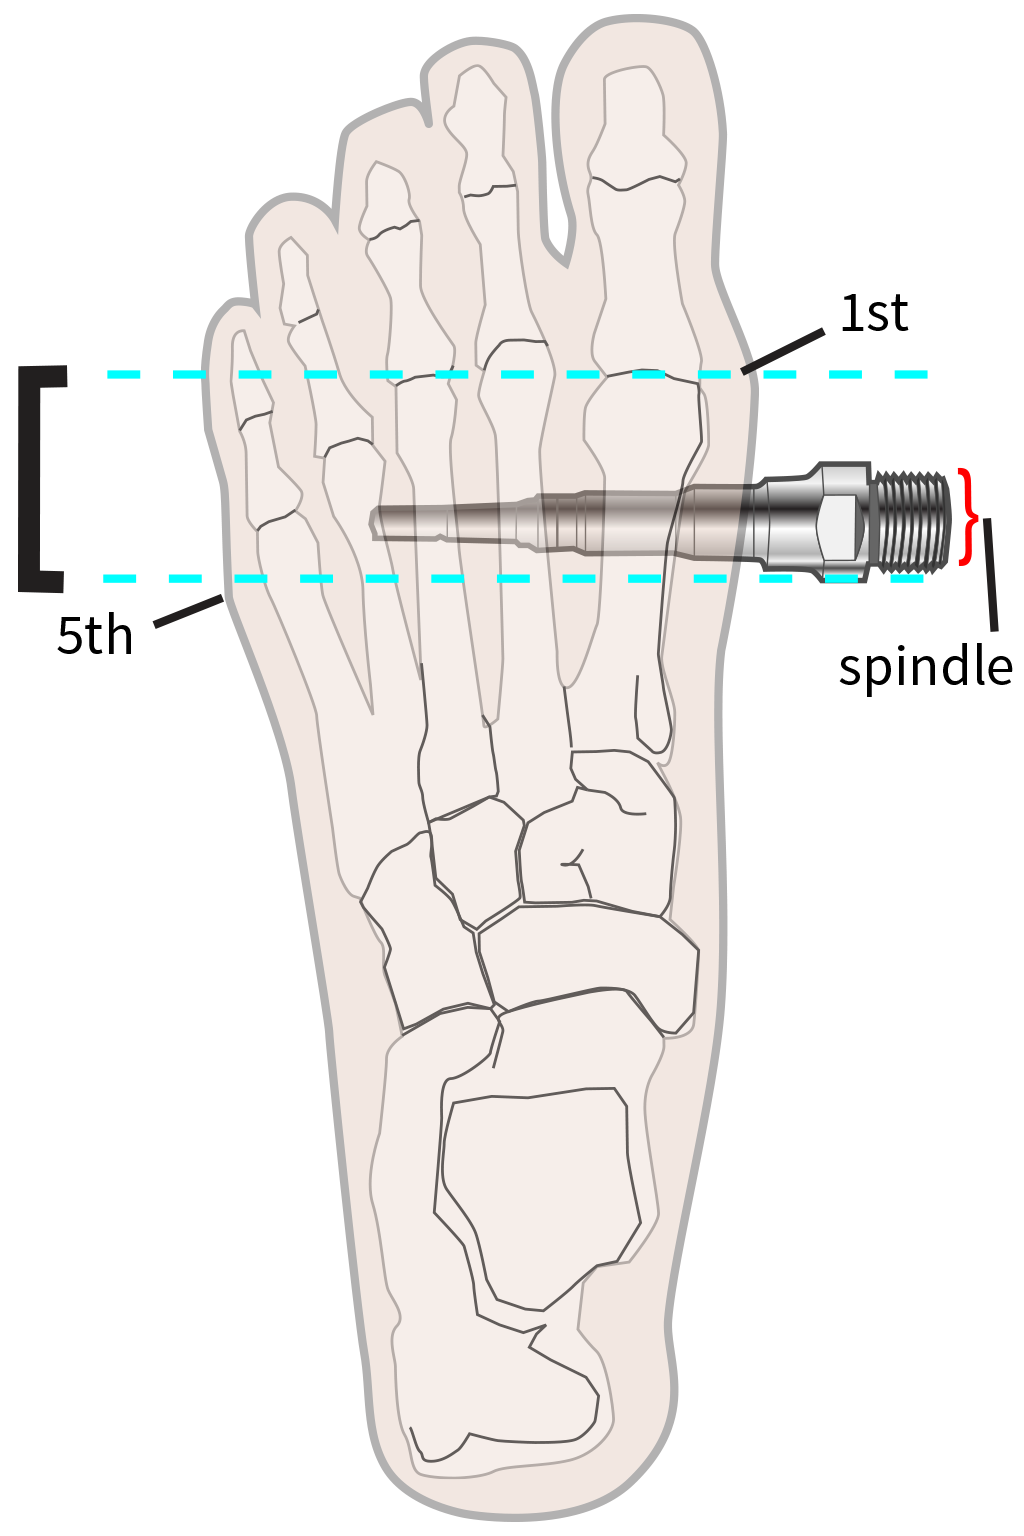
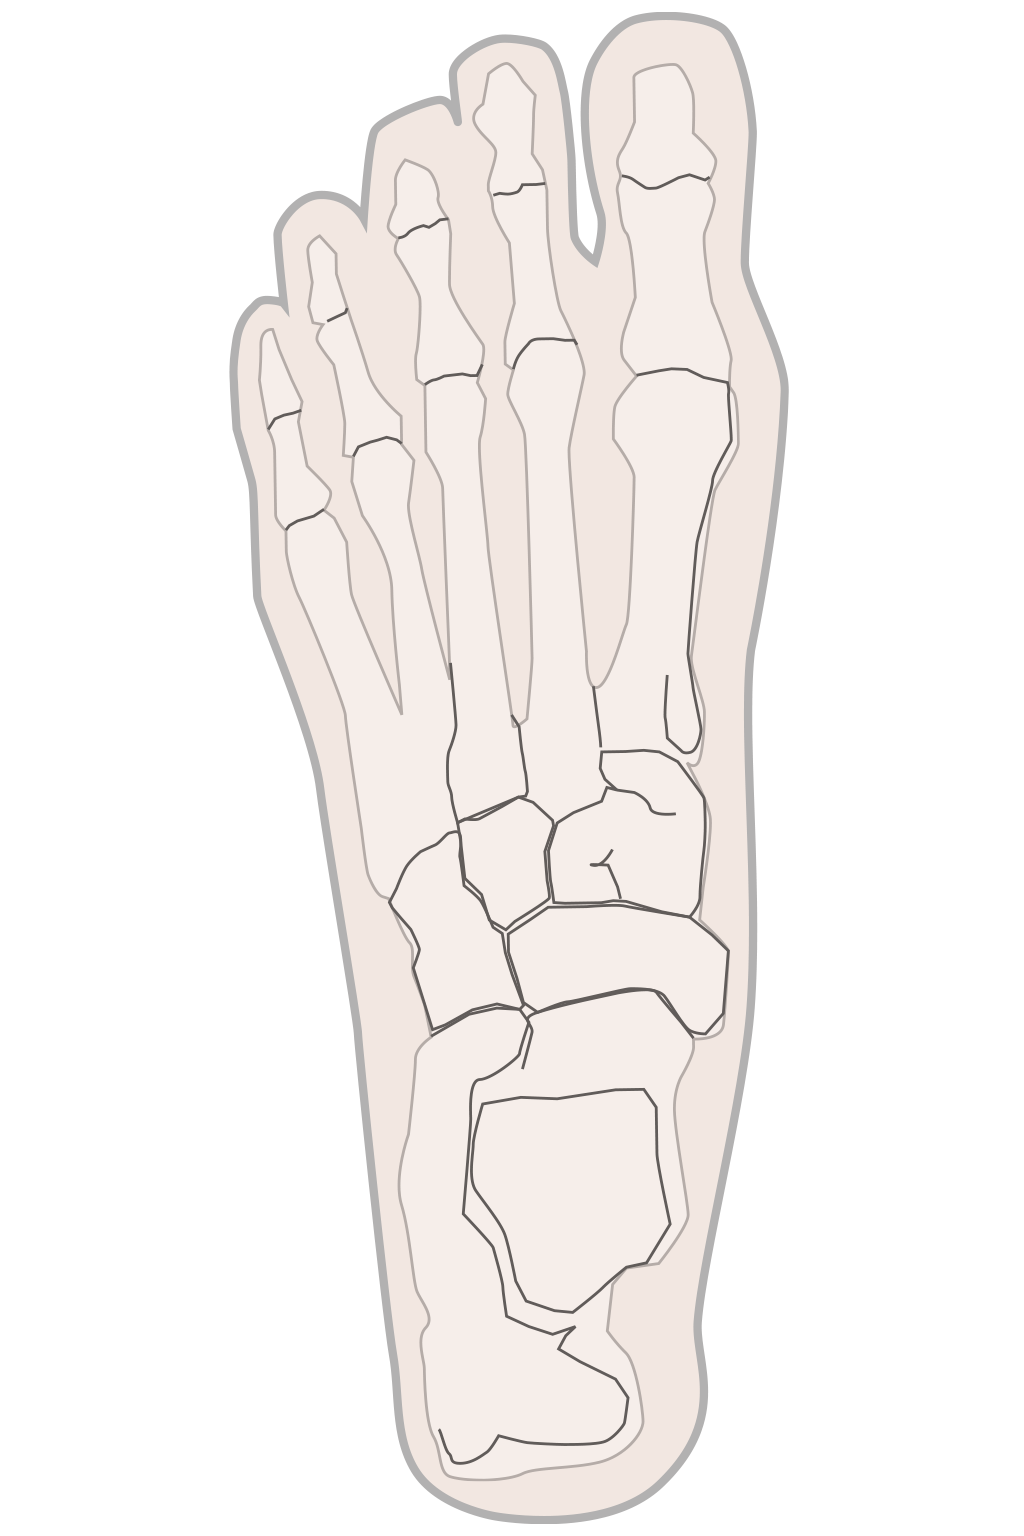
BIK-9 Use new triple layer system and spindle for cleat position

diff --git a/Tabbed Bikefit/SpindleNoteViewController.m b/Tabbed Bikefit/SpindleNoteViewController.m
@@ -9,11 +9,14 @@
 #import "SpindleNoteViewController.h"
 #import "SpindleNote.h"
 
+
+
 @interface SpindleNoteViewController ()
 
 @end
 
 @implementation SpindleNoteViewController
+
 
 - (id)initWithNibName:(NSString *)nibNameOrNil bundle:(NSBundle *)nibBundleOrNil
 {
@@ -35,16 +38,43 @@
     leftFootGraphic.hidden = YES;
     [self.view addSubview:leftFootGraphic];
     
-    rightFootGraphic = [[UIImageView alloc] initWithImage:[UIImage imageNamed:@"cleat_fa_left.png"]];
+    rightFootGraphic = [[UIImageView alloc] initWithImage:[UIImage imageNamed:@"cleat_fa_right.png"]];
     rightFootGraphic.frame = self.view.frame;
     rightFootGraphic.hidden = YES;
     rightFootGraphic.contentMode = UIViewContentModeScaleAspectFit;
     [self.view addSubview:rightFootGraphic];
     
+    leftFootTextImageView = [[UIImageView alloc] initWithImage:[UIImage imageNamed:@"cleat_fa_left_text.png"]];
+    leftFootTextImageView.contentMode = UIViewContentModeScaleAspectFit;
+    leftFootTextImageView.frame = self.view.frame;
+    leftFootTextImageView.hidden = YES;
+    [self.view addSubview:leftFootTextImageView];
+
+    rightFootTextImageView = [[UIImageView alloc] initWithImage:[UIImage imageNamed:@"cleat_fa_right_text.png"]];
+    rightFootTextImageView.contentMode = UIViewContentModeScaleAspectFit;
+    rightFootTextImageView.frame = self.view.frame;
+    rightFootTextImageView.hidden = YES;
+    [self.view addSubview:rightFootTextImageView];
+    
     spindleView = [[SpindleView alloc] initWithFrame:self.view.frame];
     spindleView.backgroundColor = [UIColor clearColor];
     [self.view addSubview:spindleView];
-
+    
+    UIImage *spindleImage = [UIImage imageNamed:@"cleat_left_spindle.png"];
+    spindleImageView = [[UIImageView alloc] initWithImage:spindleImage];
+    
+    spindleImageView.frame = CGRectMake(0,
+                                        0,
+                                        CGRectGetWidth(self.view.frame),
+                                        spindleImage.size.height);
+    
+    spindleImageView.contentMode = UIViewContentModeScaleAspectFit;
+    [self centerSpindle];
+    [self.view addSubview:spindleImageView];
+    
+    [self.view bringSubviewToFront:rightFootTextImageView];
+    [self.view bringSubviewToFront:leftFootTextImageView];
+    
     UIButton *saveButton = [UIButton buttonWithType:UIButtonTypeRoundedRect];
     saveButton.frame = CGRectMake(self.view.frame.size.width * .8,
                                   self.view.frame.size.height * .9,
@@ -78,11 +108,17 @@
     {
         [leftFootGraphic setHidden:false];
         [rightFootGraphic setHidden:true];
+        [leftFootTextImageView setHidden:false];
+        [rightFootTextImageView setHidden:true];
+        spindleImageView.image = [UIImage imageNamed:@"cleat_left_spindle.png"];
     }
     else
     {
         [leftFootGraphic setHidden:true];
         [rightFootGraphic setHidden:false];
+        [leftFootTextImageView setHidden:true];
+        [rightFootTextImageView setHidden:false];
+        spindleImageView.image = [UIImage imageNamed:@"cleat_right_spindle.png"];
     }
 }
 
@@ -95,8 +131,26 @@
 - (void) moveSpindleY:(UIPanGestureRecognizer *)sender
 {
     CGPoint location = [sender locationInView:[self view]];
-    [spindleView setSpindleYPosition:location.y];
-    [spindleView setNeedsDisplay];
+    [self setSpindlePosition:location.y];
+}
+
+- (void)setSpindlePosition:(CGFloat)y
+{
+    [spindleView setSpindleYPosition:y];
+    spindleImageView.center = CGPointMake(spindleImageView.center.x, y);
+}
+
+- (void)centerSpindle
+{
+    float scale = MIN(CGRectGetWidth(leftFootGraphic.frame)/leftFootGraphic.image.size.width,
+                      CGRectGetHeight(leftFootGraphic.frame)/leftFootGraphic.image.size.height);
+    float scaledHeight = leftFootGraphic.image.size.height * scale;
+    //the marks for the spindle range are at 25% and 37% of height of image
+    float spacing = (CGRectGetHeight(leftFootGraphic.frame) - scaledHeight) * 0.5;
+    float minYOfBox = (scaledHeight * 0.244) + spacing;
+    float maxYOfBox = (scaledHeight * 0.376) + spacing;
+    float center = (minYOfBox + maxYOfBox) * 0.5;
+    [self setSpindlePosition:center];
 }
 
 - (float)calculateMidpoint

diff --git a/Tabbed Bikefit/SpindleView.m b/Tabbed Bikefit/SpindleView.m
@@ -24,6 +24,7 @@
 
 // Only override drawRect: if you perform custom drawing.
 // An empty implementation adversely affects performance during animation.
+/*
 - (void)drawRect:(CGRect)rect
 {
     // Drawing code
@@ -35,5 +36,6 @@
     [boxPath stroke];
     
 }
+ */
 
 @end

diff --git a/Tabbed Bikefit/SpindleNoteViewController.h b/Tabbed Bikefit/SpindleNoteViewController.h
@@ -16,6 +16,9 @@
     
     IBOutlet UIImageView *leftFootGraphic;
     IBOutlet UIImageView *rightFootGraphic;
+    IBOutlet UIImageView *leftFootTextImageView;
+    IBOutlet UIImageView *rightFootTextImageView;
+    IBOutlet UIImageView *spindleImageView;
 }
 
 @end
